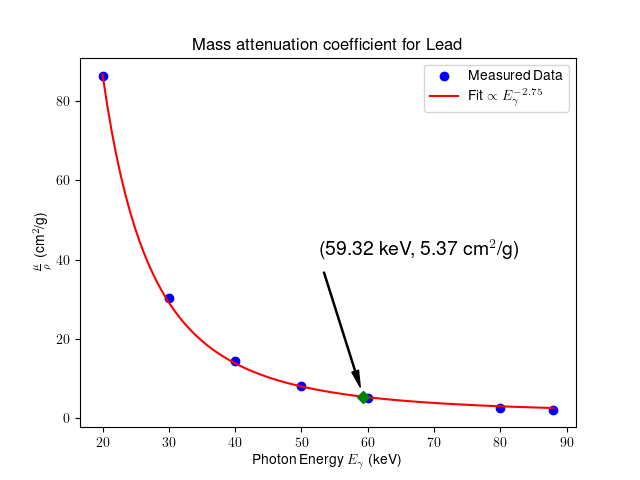
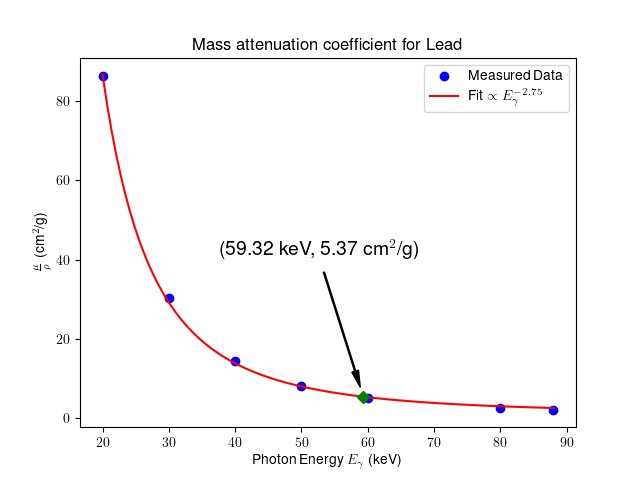
update

Changed region(s): [[0.3438, 0.5, 0.8125, 0.5625]]

diff --git a/src/attenuation.py b/src/attenuation.py
@@ -56,7 +56,7 @@ def analyze_attenuation(data_file, output_image, photon_energy):
             textcoords='figure fraction',
             fontsize=14,
             arrowprops=dict(facecolor='black', shrink=0.07, width=0.8, headwidth=5),
-            horizontalalignment='left',
+            horizontalalignment='center',
             verticalalignment='top',
             )
     # 'D' indica un marker a diamante
@@ -67,4 +67,4 @@ def analyze_attenuation(data_file, output_image, photon_energy):
 #energy = 120 # keV
 energy = 59.32 # keV
 #analyze_attenuation("attenuation_data.txt", "attenuation_plot.png", energy)
-analyze_attenuation("attenuation_peak.txt", material + "_attenuation_peak_plot.pdf", energy)
+analyze_attenuation("attenuation_peak.txt", material + "_attenuation_peak_plot.png", energy)
